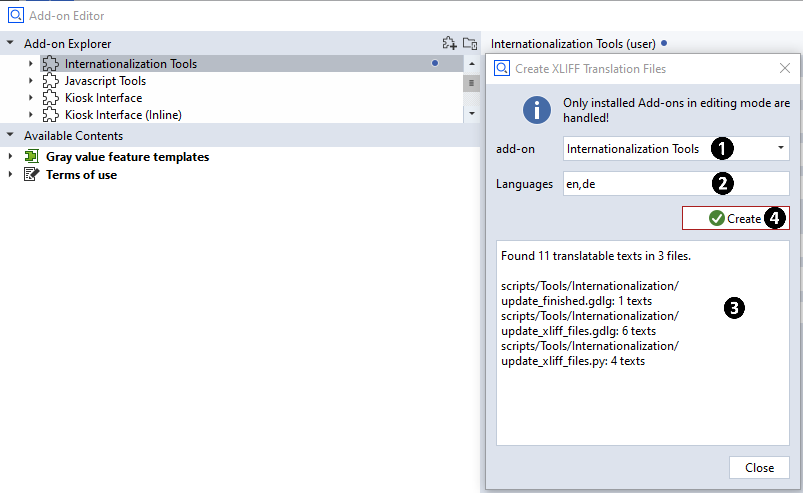
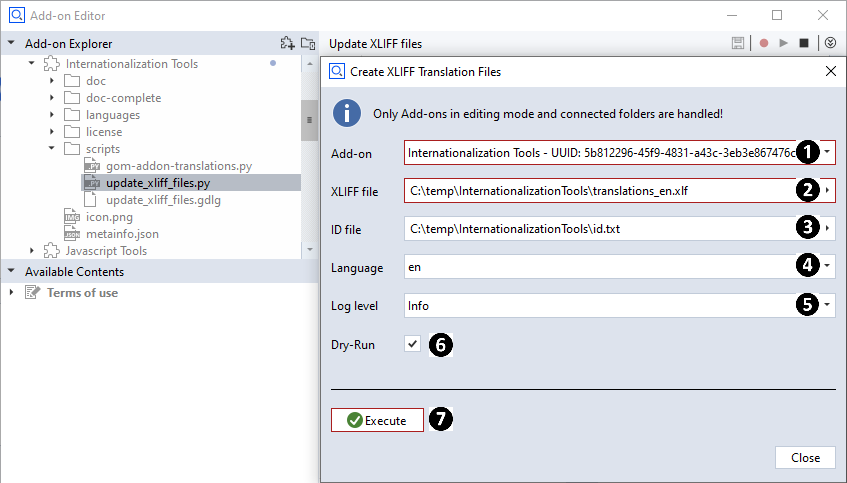
Updated after replacing Add-on

diff --git a/doc/howtos/localization/localization.md b/doc/howtos/localization/localization.md
@@ -61,41 +61,87 @@ Texts in scripts have to be tagged as translatable via using the `tr ()`  funct
 
 * Execute script 'Update XLIFF files' from Add-on 'Internationalization'.
 * Select the Add-on with the translations which shall be generated or updated (1)
-* Set the comma separated list of language identifiers for which translation files will be generated (2)
-* Check the displayed number of translated texts for plausibility (3)
-* Press 'Update' (4) to generate translatable XLIFF files (4)
+* Select the translation file which shall be generated or updated (2)
+* Select the ID file, which contains the number of the next available message ID. (3)
+* Set language identifier for which translation file will be generated (4)
+* Set the log level - log output will be written to the Add-on Editor console. (5)
+* Check 'Dry-Run' if you want to try execution without modifying files. (6)
+* Press 'Execute' (7)
 
     ![Update XLIFF](assets/update_xliff.png)
+    
+    **Log output:**
+    
+    ```
+    INFO:Update script translations
+    INFO:--------------------------
+    INFO:Add-on source directory: C:/Users/<USERID>/AppData/Roaming/gom/2023/gom_edited_addons/5b812296-45f9-4831-a43c-3eb3e867476c
+    INFO:XLIFF file: C:/temp/InternationalizationTools/translations_en.xlf
+    INFO:*** DRY RUN ***
+    INFO:Loading existing XLIFF file: C:/temp/InternationalizationTools/translations_en.xlf
+    INFO:Processing C:/Users/<USERID>/AppData/Roaming/gom/2023/gom_edited_addons/5b812296-45f9-4831-a43c-3eb3e867476c\icon.png
+    INFO:Processing C:/Users/<USERID>/AppData/Roaming/gom/2023/gom_edited_addons/5b812296-45f9-4831-a43c-3eb3e867476c\metainfo.json
+    INFO:Processing C:/Users/<USERID>/AppData/Roaming/gom/2023/gom_edited_addons/5b812296-45f9-4831-a43c-3eb3e867476c\doc\README.md
+    INFO:Processing C:/Users/<USERID>/AppData/Roaming/gom/2023/gom_edited_addons/5b812296-45f9-4831-a43c-3eb3e867476c\doc\README.pdf
+    INFO:Processing C:/Users/<USERID>/AppData/Roaming/gom/2023/gom_edited_addons/5b812296-45f9-4831-a43c-3eb3e867476c\doc-complete\appdata_access.png
+    INFO:Processing C:/Users/<USERID>/AppData/Roaming/gom/2023/gom_edited_addons/5b812296-45f9-4831-a43c-3eb3e867476c\doc-complete\edit_mode.png
+    INFO:Processing C:/Users/<USERID>/AppData/Roaming/gom/2023/gom_edited_addons/5b812296-45f9-4831-a43c-3eb3e867476c\doc-complete\language_preferences.png
+    INFO:Processing C:/Users/<USERID>/AppData/Roaming/gom/2023/gom_edited_addons/5b812296-45f9-4831-a43c-3eb3e867476c\doc-complete\README.md
+    INFO:Processing C:/Users/<USERID>/AppData/Roaming/gom/2023/gom_edited_addons/5b812296-45f9-4831-a43c-3eb3e867476c\doc-complete\start_from_menu.png
+    INFO:Processing C:/Users/<USERID>/AppData/Roaming/gom/2023/gom_edited_addons/5b812296-45f9-4831-a43c-3eb3e867476c\doc-complete\update_xliff.png
+    INFO:Processing C:/Users/<USERID>/AppData/Roaming/gom/2023/gom_edited_addons/5b812296-45f9-4831-a43c-3eb3e867476c\doc-complete\xliff_files.png
+    INFO:Processing C:/Users/<USERID>/AppData/Roaming/gom/2023/gom_edited_addons/5b812296-45f9-4831-a43c-3eb3e867476c\languages\InternationalizationTools_cs.xlf
+    INFO:Processing C:/Users/<USERID>/AppData/Roaming/gom/2023/gom_edited_addons/5b812296-45f9-4831-a43c-3eb3e867476c\languages\InternationalizationTools_de.xlf
+    INFO:Processing C:/Users/<USERID>/AppData/Roaming/gom/2023/gom_edited_addons/5b812296-45f9-4831-a43c-3eb3e867476c\languages\InternationalizationTools_en.xlf
+    INFO:Processing C:/Users/<USERID>/AppData/Roaming/gom/2023/gom_edited_addons/5b812296-45f9-4831-a43c-3eb3e867476c\languages\InternationalizationTools_es.xlf
+    INFO:Processing C:/Users/<USERID>/AppData/Roaming/gom/2023/gom_edited_addons/5b812296-45f9-4831-a43c-3eb3e867476c\languages\InternationalizationTools_fr.xlf
+    INFO:Processing C:/Users/<USERID>/AppData/Roaming/gom/2023/gom_edited_addons/5b812296-45f9-4831-a43c-3eb3e867476c\languages\InternationalizationTools_it.xlf
+    INFO:Processing C:/Users/<USERID>/AppData/Roaming/gom/2023/gom_edited_addons/5b812296-45f9-4831-a43c-3eb3e867476c\languages\InternationalizationTools_ja.xlf
+    INFO:Processing C:/Users/<USERID>/AppData/Roaming/gom/2023/gom_edited_addons/5b812296-45f9-4831-a43c-3eb3e867476c\languages\InternationalizationTools_ko.xlf
+    INFO:Processing C:/Users/<USERID>/AppData/Roaming/gom/2023/gom_edited_addons/5b812296-45f9-4831-a43c-3eb3e867476c\languages\InternationalizationTools_pl.xlf
+    INFO:Processing C:/Users/<USERID>/AppData/Roaming/gom/2023/gom_edited_addons/5b812296-45f9-4831-a43c-3eb3e867476c\languages\InternationalizationTools_pt.xlf
+    INFO:Processing C:/Users/<USERID>/AppData/Roaming/gom/2023/gom_edited_addons/5b812296-45f9-4831-a43c-3eb3e867476c\languages\InternationalizationTools_ru.xlf
+    INFO:Processing C:/Users/<USERID>/AppData/Roaming/gom/2023/gom_edited_addons/5b812296-45f9-4831-a43c-3eb3e867476c\languages\InternationalizationTools_zh.xlf
+    INFO:Processing C:/Users/<USERID>/AppData/Roaming/gom/2023/gom_edited_addons/5b812296-45f9-4831-a43c-3eb3e867476c\license\license.txt
+    INFO:Processing C:/Users/<USERID>/AppData/Roaming/gom/2023/gom_edited_addons/5b812296-45f9-4831-a43c-3eb3e867476c\scripts\gom-addon-translations.metainfo
+    INFO:Processing C:/Users/<USERID>/AppData/Roaming/gom/2023/gom_edited_addons/5b812296-45f9-4831-a43c-3eb3e867476c\scripts\gom-addon-translations.py
+    INFO:Processing C:/Users/<USERID>/AppData/Roaming/gom/2023/gom_edited_addons/5b812296-45f9-4831-a43c-3eb3e867476c\scripts\update_xliff_files.gdlg
+    INFO:Processing C:/Users/<USERID>/AppData/Roaming/gom/2023/gom_edited_addons/5b812296-45f9-4831-a43c-3eb3e867476c\scripts\update_xliff_files.metainfo
+    INFO:Processing C:/Users/<USERID>/AppData/Roaming/gom/2023/gom_edited_addons/5b812296-45f9-4831-a43c-3eb3e867476c\scripts\update_xliff_files.py
+    INFO:Processing C:/Users/<USERID>/AppData/Roaming/gom/2023/gom_edited_addons/5b812296-45f9-4831-a43c-3eb3e867476c\scripts\update_xliff_files.py.lock
+    ```
 
-* Afterwards, the Add-on's XLIFF translatable files will be present in the Add-on's languages folder:
+* If you have selected a separate folder for the XLIFF translation files, copy the files to the Add-on folder:
 
     ![XLIFF files](assets/xliff_files.png)
 
 #### Translate XLIFF files
 
-* Export the XLIFF files via 'Export Resource...' in the right mouse button menu.
+* Export the XLIFF files 
+% via 'Export Resource...' in the right mouse button menu.
 * Translate the XLIFF files. This can be done either manually or by importing them into a translation software, possibly via a translation service provider.
-* Import the XLIFF files back into the Add-on via 'Import Resource...' on the right mouse button menu.
+* Import the XLIFF files back into the Add-on 
+% via 'Import Resource...' on the right mouse button menu.
 
 ``` XML
-<ns0:xliff xmlns:ns0="urn:oasis:names:tc:xliff:document:1.1" version="1.1">
-    <file original="DL_ANALYSIS_01_curve_based.py" datatype="py" source-language="en" target-language="de">
-    <group restype="x-gettext-domain" resname="">
-        <trans-unit id="Save Log File">
-        <source xml:space="preserve">Save Log File</source>
-        <target xml:space="preserve">Protokolldatei speichern</target>
-        </trans-unit>
-        <trans-unit id="Curve inspection">
-        <source xml:space="preserve">Curve inspection</source>
-        <target xml:space="preserve">Kurveninspektion</target>
-        </trans-unit>
-        <trans-unit id="Processing...">
-        <source xml:space="preserve">Processing...</source>
-        <target xml:space="preserve">In Bearbeitung...</target>
-        </trans-unit>
-    </group>
-    </file>
-</ns0:xliff>
+<xliff xmlns="urn:oasis:names:tc:xliff:document:1.1" version="1.1">
+    <file original="metainfo.json" datatype="json" source-language="en" target_language="en">
+	    <group restype="x-gettext-domain" resname="metainfo.json">
+			<trans-unit id="msg1" resname="author">
+				<source xml:space="preserve">Carl Zeiss GOM Metrology GmbH</source>
+				<target xml:space="preserve">Carl Zeiss GOM Metrology GmbH</target>
+			</trans-unit>
+			<trans-unit id="msg2" resname="description">
+				<source xml:space="preserve">Tools for add-on internationalization</source>
+				<target xml:space="preserve">Tools for add-on internationalization</target>
+			</trans-unit>
+			<trans-unit id="msg3" resname="title">
+				<source xml:space="preserve">Internationalization Tools</source>
+				<target xml:space="preserve">Internationalization Tools</target>
+			</trans-unit>
+		</group>
+	</file>
+</xliff>
 ```
 
 ## Switching Add-on languages
@@ -120,25 +166,15 @@ Texts in scripts have to be tagged as translatable via using the `tr ()`  funct
 * If there are quite many of these files and the process has to be done regularly, the resource files can be accessed right on file system.
 * Each Add-on in 'Edit' mode mirrors its content into `%APPDATA%/gom/<version>/gom_edited_addons/<add-on uuid>`.
 * The XLIFF files can be edited right there or copied/pasted from there as long as the Add-on remains in 'Edit' mode.
+* The Python script `gom-addon-translation.py` used by the Internationalization Add-on can be used on the command line, i.e. without graphical user interface.
 
 ### Are the translation entries persistent when updated via the 'Update XLIFF files' script?
 
 * As long as the original texts (the texts in the 'id' attribute of the 'trans-unit' tag of the XLIFF files) are not changing, already translated entries are left untouched and will persist.
 * This is the case when the original text in the script does not change, like the text in a dialog button or the original text in a scripts 'tr ()' function.
-* Can this scheme be automated, for example in a build queue ?
-* The 'Update XLIFF files' script itself is designed to be interactive.
-* But: The source is available and the logic within can be used as a base to implement a customized XLIFF files updater to automatic execution.
-* The goal of the scheme is to have translated XLIFF files with a name scheme as shown above in the Add-on's 'language' directory.
 
 ### Why is the Add-on not displaying the translations after changing the application language in the preferences?
 
 * You might have to restart the application after switching the application language in the preferences.
-* Please double check, too,  if the Add-on supports that specific language at all.
+* Please double check, if the Add-on supports that specific language at all, too.
 
-<!--
-### Are Add-ons built in the internal GOM build system handled the same way ?
-
-* No.
-* Add-ons built in the internal GOM build system right from version control are subject of a technical documentation team project.
-* See internal documentation for details: [Link]
--->
